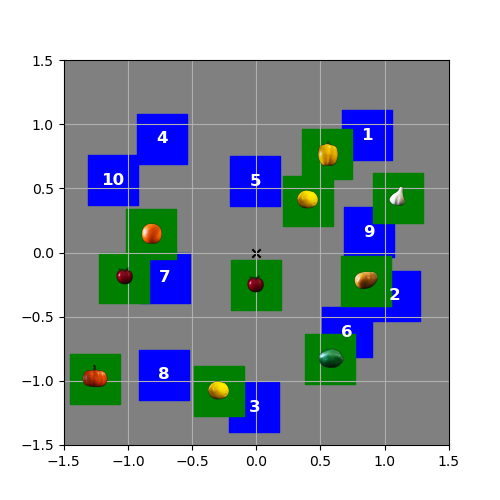
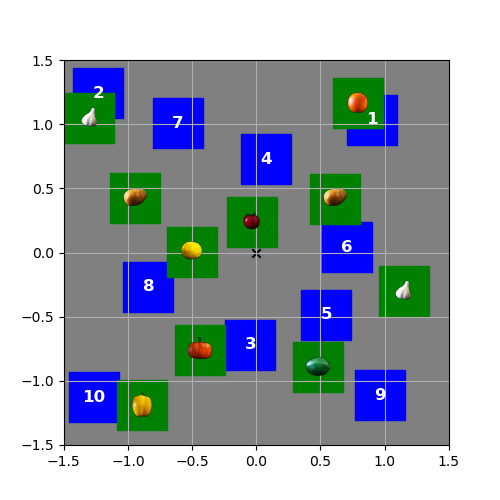
gui stuff

Changed region(s): [[0.12, 0.12, 0.87, 0.87]]

diff --git a/Week12/auto_fruit_search_new_strat.py b/Week12/auto_fruit_search_new_strat.py
@@ -28,7 +28,8 @@ from YOLO.detector import Detector
 # Astar imports
 import astar
 
-from txt_to_image import *
+from txt_to_imagev2 import *
+import pygamemapgui
 
 def read_true_map(fname):
     """Read the ground truth map and output the pose of the ArUco markers and 5 target fruits&vegs to search for
@@ -715,23 +716,32 @@ if __name__ == "__main__":
                      pygame.image.load('pics/8bit/pibot4.png'),
                      pygame.image.load('pics/8bit/pibot5.png')]
     pygame.display.update()
-
+    # ========================================================================
     # create map_image.png from text file
     visualise_map(args.map)
-
+    # params for gui
+    background_colour = (45,45,45)
+    rect_colour = (128,128,128)
+    white = (255, 255, 255)
+    black = (0, 0, 0)
+    red = (255, 0, 0)
+    orange = (245, 117, 20)
+    PIBOT_WIDTH = (155/1.5)*0.1
+    PIBOT_HEIGHT = PIBOT_WIDTH
+    
     # drawing map_image rectangle
-    map_background_rect = pygame.Rect(700, 0, 400, 660) #
-    map_background_colour = (45,45,45)
-    pygame.draw.rect(canvas,map_background_colour,map_background_rect)
-    # resizing map_image and drawing on the canvas
-    map_image = pygame.image.load('map_image.png')
-    map_image = pygame.transform.scale(map_image, (400, 400))
-    canvas.blit(map_image, (700, 0))
-    # adding origin marker for original pibot pos
-    #origin_dot = pygame.Rect(904,201,4,4) # origin is 906,203 but drawing two pixels either side
-    #origin_colour = (165,42,42)
-    #pygame.draw.rect(canvas,origin_colour,origin_dot)
+    map_background_rect = pygame.Rect(700, 0, 400, 660)
 
+    pygame.draw.rect(canvas,rect_colour,map_background_rect)
+    # resizing map_image and drawing on the canvas
+    map_image = pygame.image.load('map_imagev2.png')
+    pibot = pygame.image.load('guipngs/pibot_top.png')
+    pibot = pygame.transform.scale(pibot, (PIBOT_WIDTH, PIBOT_HEIGHT))
+    map_image = pygamemapgui.initialise_map(map_image)
+    
+    #update_gui_map(pibot_x, pibot_y, pibot_theta, map_image, pibot, waypoints)
+     
+    # ========================================================================
     start = False
 
     # read in the true map

diff --git a/Week12/pygamemapgui.py b/Week12/pygamemapgui.py
@@ -78,12 +78,12 @@ orange = (245, 117, 20)
 PIBOT_WIDTH = (155/1.5)*0.1
 PIBOT_HEIGHT = PIBOT_WIDTH
 
-(width, height) = (1100, 660)
-canvas = pygame.display.set_mode((width, height))
-pygame.display.set_caption('Test map')
+# (width, height) = (1100, 660)
+# canvas = pygame.display.set_mode((width, height))
+# pygame.display.set_caption('Test map')
 
 map_background_rect = pygame.Rect(700, 0, 400, 660)
-canvas.fill(background_colour)
+#canvas.fill(background_colour)
 pygame.draw.rect(canvas,rect_colour,map_background_rect)
 
 

diff --git a/Week12/txt_to_image.py b/Week12/txt_to_image.py
@@ -66,6 +66,7 @@ def visualise_map(map):
     ax.scatter(ReferenceArUcos_x, ReferenceArUcos_y, color = "blue", marker = "s")
     ax.scatter(ReferenceObjects_x, ReferenceObjects_y, c = Objects_colours, marker = "o")
     ax.scatter(0,0, color = "red", marker = "s")
+    #plt.show()
     fig.savefig("map_image.png")
 
 visualise_map('TrueMap.txt')

diff --git a/Week12/txt_to_imagev2.py b/Week12/txt_to_imagev2.py
@@ -120,7 +120,7 @@ def visualise_map(map):
     ax.scatter(0,0, color = "black", marker = "x")
     print(ReferenceMap)
     plt.grid(True)
-    # plt.show()
+    #plt.show()
     fig.savefig("map_imagev2.png")
 
-visualise_map('TrueMap.txt')
+#visualise_map('TrueMap.txt')
